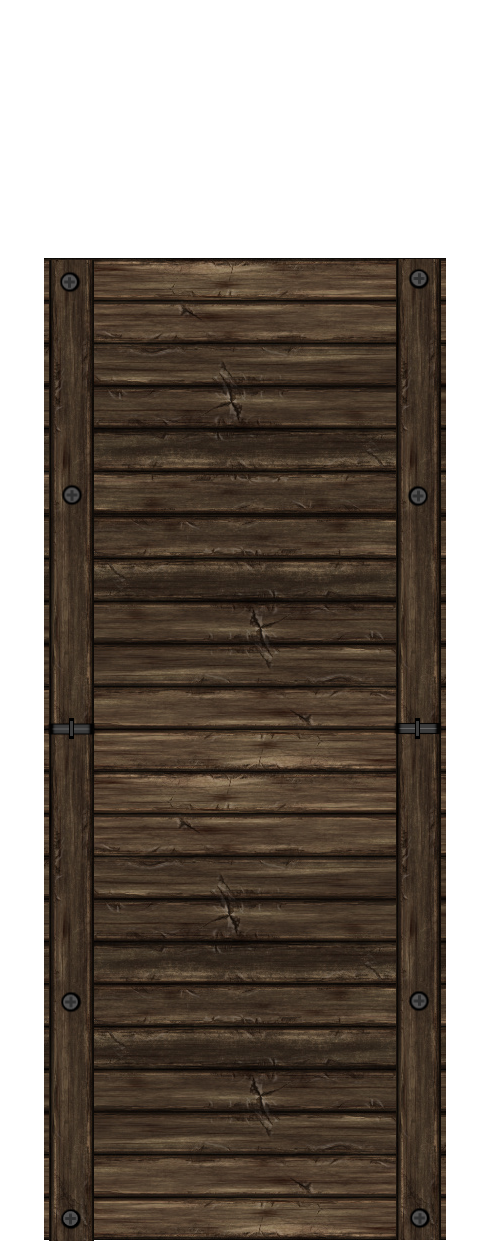
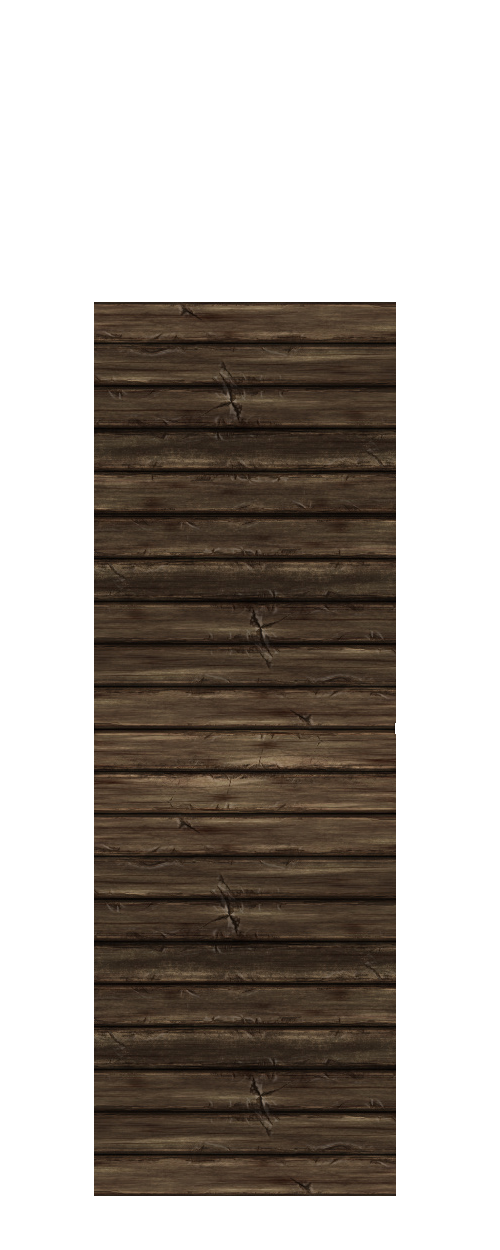
Wooden Box Fixes (#2088)
* Fixed Position Assets

* Wooden Box Fixes

Changed region(s): [[0.09, 0.1872, 0.9, 0.9984]]

diff --git a/BondageClub/Assets/Female3DCG/Female3DCG.js b/BondageClub/Assets/Female3DCG/Female3DCG.js
@@ -3670,18 +3670,19 @@ var AssetFemale3DCG = [
 		Zone: [[10, 600, 90, 400], [400, 600, 90, 400]],
 		Asset: [
 			{
-				Name: "WoodenBox", Value: 60, Difficulty: -2, SelfBondage: 5, Time: 15, RemoveTime: 10, AllowLock: true, Audio: "LockLarge", RemoveAtLogin: true, DefaultColor: ["Default", "#600"], SetPose: ["BaseLower"], Extended: true, DynamicAfterDraw: true, MinOpacity: 0, Opacity: 0,
+				Name: "WoodenBox", Value: 60, Difficulty: -2, SelfBondage: 5, Time: 15, RemoveTime: 10, AllowLock: true, Audio: "LockLarge", RemoveAtLogin: true, DefaultColor: ["Default", "#600"], SetPose: ["BaseLower"], Extended: true, DynamicAfterDraw: true, MinOpacity: 0, Opacity: 0, FixedPosition: true,
 				AllowType: ["NWSE"],
 				Prerequisite: ["NotSuspended", "NotHogtied", "NotHorse"],
 				Effect: ["Prone", "Enclose", "Freeze"],
 				AllowEffect: ["Prone", "Enclose", "BlindNormal", "GagLight", "Freeze"],
-				AllowPose: ["Kneel"],
-				HideItem: ["ShoesFlippers"],
-				Alpha: [{ Group: ["Cloth", "ClothLower", "TailStraps", "Wings", "ItemButt", "ItemArms"], Masks: [[0, 0, 90, 1000], [400, 0, 100, 1000]] }],
 				Layer: [
 					{ Name: "Back", Priority: 1, MinOpacity: 1, HasType: false },
 					{ Name: "Panel", CopyLayerColor: "Back", HasType: false },
-					{ Name: "Text", HasImage: false, HasType: false }
+					{ Name: "Text", HasImage: false, HasType: false },
+					{
+						Name: "Frame", CopyLayerColor: "Back", MinOpacity: 1, HasType: false,
+						Alpha: [{ Masks: [[0, -50, 500, 80], [0, 10, 45, 980], [445, 10, 55, 980], [0, 990, 500, 110]] }],
+					},
 				],
 			},
 			{ Name: "SmallWoodenBox", Value: 40, Difficulty: -2, SelfBondage: 5, Time: 15, RemoveTime: 10, AllowLock: true, Audio: "LockLarge", Prerequisite: ["NotSuspended", "NotHogtied", "NotMounted", "NotKneelingSpread", "NoFeetSpreader", "CanKneel"], SetPose: ["Kneel"], Effect: ["ForceKneel", "Prone", "Enclose", "BlindNormal", "GagLight", "Freeze"], HideItem: ["ShoesFlippers"], Alpha: [{ Masks: [[1, 1, 70, 999], [420, 1, 80, 999]] }], RemoveAtLogin: true },
@@ -3856,17 +3857,18 @@ var AssetFemale3DCG = [
 				],
 			},
 			{
-				Name: "TransportWoodenBox", Value: 60, Difficulty: -2, SelfBondage: 5, Time: 15, RemoveTime: 10, AllowLock: true, Audio: "LockLarge", DefaultColor: ["Default", "Default", "Default", "#600"], Extended: true, RemoveAtLogin: true, SetPose: ["BaseLower"], MinOpacity: 0, Opacity: 0, DynamicAfterDraw: true,
+				Name: "TransportWoodenBox", Value: 60, Difficulty: -2, SelfBondage: 5, Time: 15, RemoveTime: 10, AllowLock: true, Audio: "LockLarge", DefaultColor: ["Default", "Default", "Default", "#600"], Extended: true, RemoveAtLogin: true, SetPose: ["BaseLower"], MinOpacity: 0, Opacity: 0, DynamicAfterDraw: true, FixedPosition: true,
 				AllowType: ["NWSE"],
-				AllowPose: ["Kneel"],
 				Prerequisite: ["NotSuspended", "NotHogtied"],
 				Effect: ["Prone", "Enclose", "Freeze", "Leash"],
 				AllowEffect: ["Prone", "Enclose", "BlindNormal", "GagLight", "Freeze", "Leash"],
-				HideItem: ["ShoesFlippers"],
-				Alpha: [{ Group: ["Cloth", "ClothLower", "TailStraps", "Wings", "ItemButt", "ItemArms"], Masks: [[0, 0, 90, 1000], [400, 0, 100, 1000]] }],
-				 Layer: [
+				Layer: [
 					{ Name: "Back", Priority: 1, MinOpacity: 1, HasType: false },
 					{ Name: "Panel", CopyLayerColor: "Back", HasType: false },
+					{
+						Name: "Frame", CopyLayerColor: "Back", MinOpacity: 1, HasType: false,
+						Alpha: [{ Masks: [[0, -50, 500, 80], [0, 10, 45, 980], [445, 10, 55, 980], [0, 990, 500, 110]] }],
+					},
 					{ Name: "Wheelholders", MinOpacity: 1, HasType: false },
 					{ Name: "Wheels", MinOpacity: 1, HasType: false },
 					{ Name: "Text", HasImage: false, HasType: false },

diff --git a/BondageClub/Screens/Inventory/ItemDevices/WoodenBox/WoodenBox.js b/BondageClub/Screens/Inventory/ItemDevices/WoodenBox/WoodenBox.js
@@ -214,7 +214,7 @@ function InventoryItemDevicesWoodenBoxGetInputOpacity() {
  * @param {object} DrawingData - The dynamic drawing data
  * @returns {void} - Nothing
  */
-function AssetsItemDevicesWoodenBoxAfterDraw({ C, A, X, Y, L, Pose, Property, drawCanvas, drawCanvasBlink, AlphaMasks, Color, Opacity }) {
+function AssetsItemDevicesWoodenBoxAfterDraw({ C, A, X, Y, L, Property, drawCanvas, drawCanvasBlink, AlphaMasks, Color, Opacity }) {
 	if (L === "_Text") {
 		const height = 900;
 		const width = 310;
@@ -246,12 +246,9 @@ function AssetsItemDevicesWoodenBoxAfterDraw({ C, A, X, Y, L, Pose, Property, dr
 			color: `rgba(${r}, ${g}, ${b}, ${0.7 * Opacity})`,
 		});
 
-		let drawY = Y + 300;
-		if (Pose === "Kneel/") drawY -= 250;
-
 		// We print the canvas on the character based on the asset position
-		drawCanvas(tmpCanvas, X + 90, drawY, AlphaMasks);
-		drawCanvasBlink(tmpCanvas, X + 90, drawY, AlphaMasks);
+		drawCanvas(tmpCanvas, X + 90, Y + 300, AlphaMasks);
+		drawCanvasBlink(tmpCanvas, X + 90, Y + 300, AlphaMasks);
 	}
 }
 
